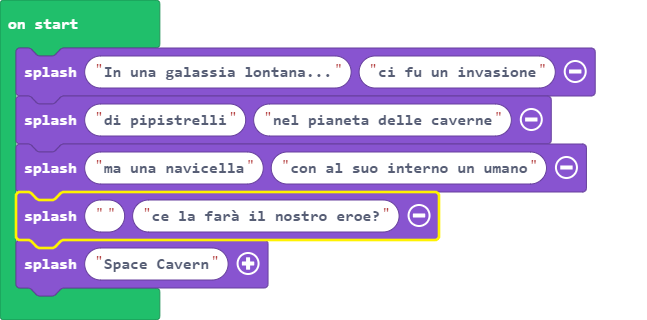
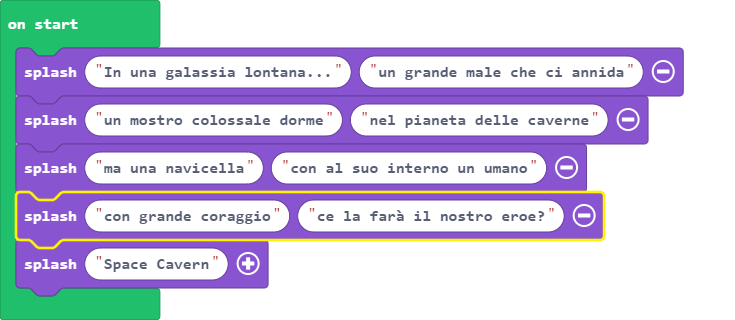
Update pxt.json, main.blocks, main.ts

diff --git a/main.ts b/main.ts
@@ -1,5 +1,5 @@
-game.splash("In una galassia lontana...", "ci fu un invasione")
-game.splash("di pipistrelli", "nel pianeta delle caverne")
+game.splash("In una galassia lontana...", "un grande male che ci annida")
+game.splash("un mostro colossale dorme", "nel pianeta delle caverne")
 game.splash("ma una navicella", "con al suo interno un umano")
-game.splash("", "ce la farà il nostro eroe?")
+game.splash("con grande coraggio", "ce la farà il nostro eroe?")
 game.splash("Space Cavern")
